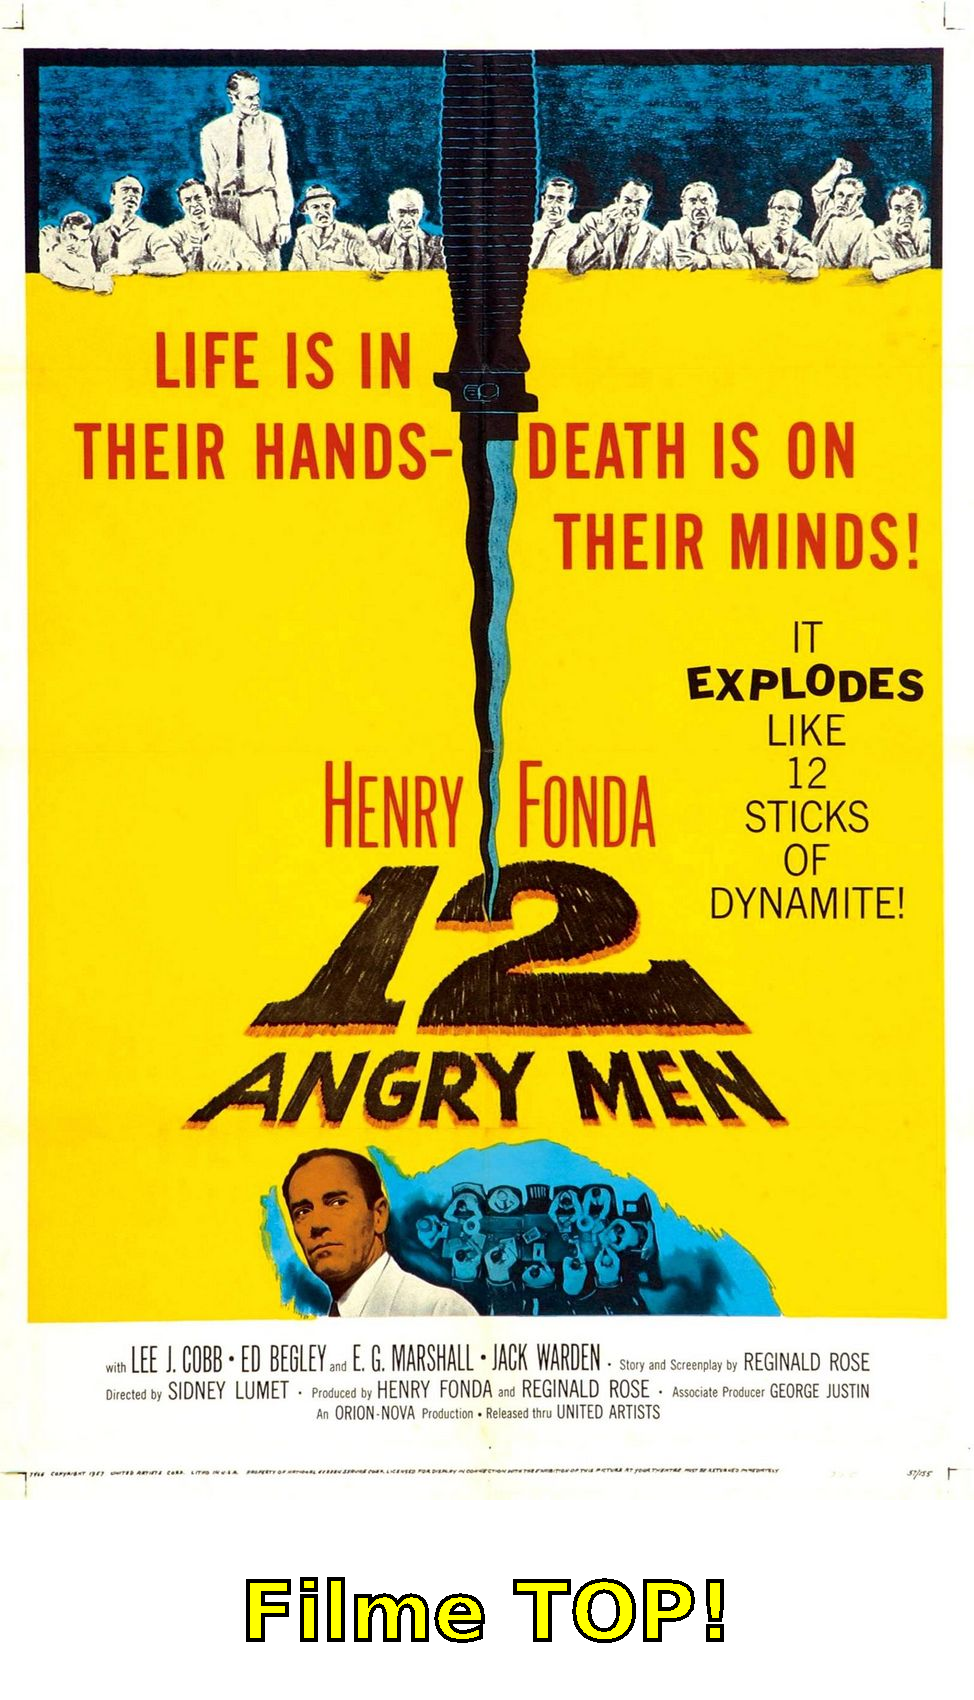
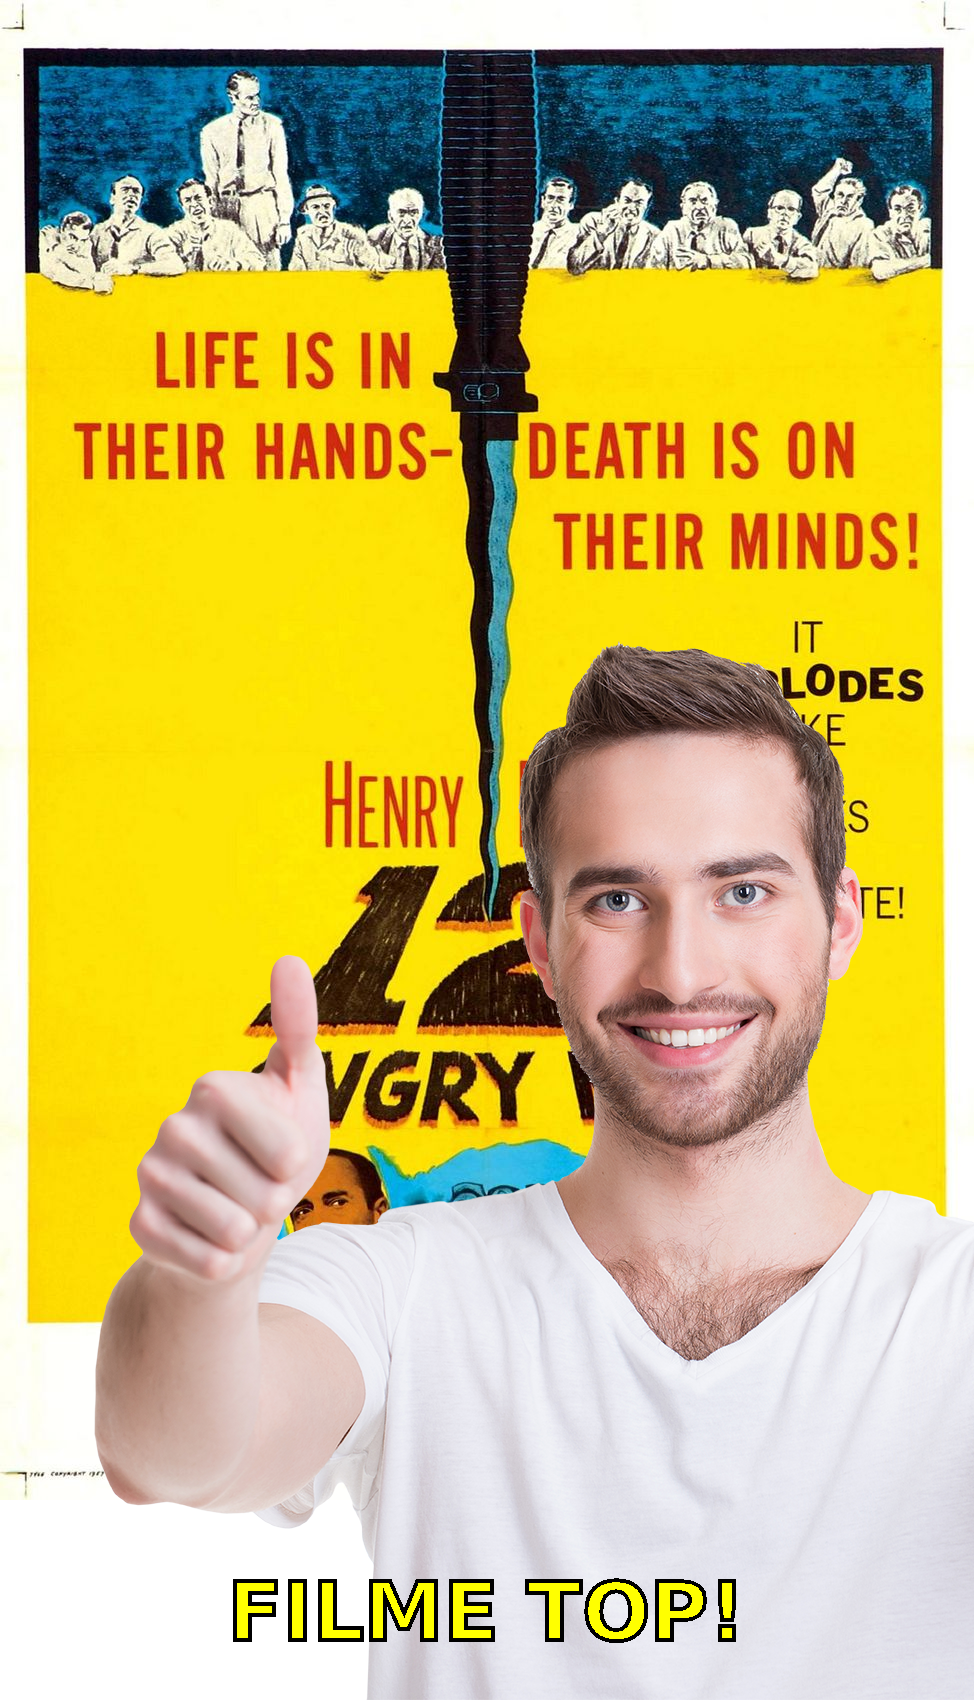
ajustes e realizacao dos desafios

Changed region(s): [[0.0924, 0.3741, 1.0, 1.0]]

diff --git a/src/Main.java b/src/Main.java
@@ -1,6 +1,8 @@
 import java.io.File;
+import java.io.FileInputStream;
 import java.io.IOException;
 import java.io.InputStream;
+import java.lang.reflect.Array;
 import java.net.URI;
 import java.net.URL;
 import java.net.http.HttpClient;
@@ -13,12 +15,14 @@ public class Main {
     public static void main(String[] args) throws IOException, InterruptedException {
 
         // fazer uma conexão HTTP e buscar os top 250 filmes
-        String url = "https://imdb-api.com/en/API/Top250Movies/k_63q3moh2";
+        //String url = "https://raw.githubusercontent.com/alura-cursos/imersao-java-2-api/main/TopMovies.json"; // usando endereço alternativo
+        //String url = "https://imdb-api.com/en/API/Top250Movies/k_63q3moh2";
 
         // faz uma conexão HTTP e busca as top 250 séries de TV
         //String url = "https://imdb-api.com/en/API/Top250TVs/k_63q3moh2";
 
         // faz uma conexão HTTP e busca os filmes mais populares
+        String url = "https://raw.githubusercontent.com/alura-cursos/imersao-java-2-api/main/MostPopularMovies.json";
         //String url = "https://imdb-api.com/en/API/MostPopularMovies/k_63q3moh2";
 
         URI endereco = URI.create(url);
@@ -40,19 +44,48 @@ public class Main {
 
         // exibir e manipular os dados
         GeradorDeStickers geradora = new GeradorDeStickers();
-        for (Map<String,String> filme : listaDeFilmes) {
+
+        //limitando em 5 filmes para agilizar os testes
+        for (int i = 0; i < 5; i++) {
+          var filme = listaDeFilmes.get(i);
+
+        //for (Map<String,String> filme : listaDeFilmes) {
 
             // ajusta a url da imagem para acessar a versão em maior qualidade
-            String urlImagemPequena = filme.get("image");
-            String urlImagem = urlImagemPequena.replace("._V1_UX128_CR0,12,128,176_AL_", "");
+            String urlImagem = filme.get("image");
+            String urlImagemMaior = urlImagem.replaceFirst("(@\\.)([0-9A-Z,_]+).jpg$", "");
+            //String urlImagemMaior = urlImagem.replace("._V1_UX128_CR0,12,128,176_AL_", "");
 
             String titulo = filme.get("title");
+
+            // criei esta verificação pros casos de filmes que estávam sem um imDbRanting
+            Double classificacao;
+            if (filme.get("imDbRating") == "") {
+                classificacao = 0.0;;
+            } else {
+                classificacao = Double.parseDouble(filme.get("imDbRating"));
+            }
+
+            // altera o textoPoster de acordo com a classificação do ImDBRanting
+            String textoPoster;
+            InputStream imagemPessoa;
+            if (classificacao >= 8.0) {
+                textoPoster = "FILME TOP!";
+                imagemPessoa = new FileInputStream(new File("sobreposicao/top.png"));
+            } else if (classificacao >= 6.0) {
+                textoPoster = "FILME BOM";
+                imagemPessoa = new FileInputStream(new File("sobreposicao/bom.png"));
+            } else {
+                textoPoster = "MELHOR ESCOLHER OUTRO...";
+                imagemPessoa = new FileInputStream(new File("sobreposicao/ruim.png"));
+            }
+
             String nomeArquivo = "posters/" + titulo + ".png";
+            InputStream inputStream = new URL(urlImagemMaior).openStream();
 
-            InputStream inputStream = new URL(urlImagem).openStream();
-            geradora.cria(inputStream, nomeArquivo);
+            geradora.cria(inputStream, nomeArquivo, textoPoster, imagemPessoa);
 
-            System.out.println("Título: "+filme.get("title"));
+            System.out.println("Título -> "+filme.get("title"));
             System.out.println();
         }
     }

diff --git a/src/GeradorDeStickers.java b/src/GeradorDeStickers.java
@@ -13,7 +13,7 @@ import java.net.URL;
 
 public class GeradorDeStickers {
 
-    public void cria(InputStream inputStream, String nomeArquivo) throws IOException {
+    public void cria(InputStream inputStream, String nomeArquivo, String texto, InputStream inputStreamSobreposicao) throws IOException {
 
         // fazer a leitura da imagem
         //InputStream inputStream = new FileInputStream(new File("entrada/filme.jpg"));
@@ -30,13 +30,17 @@ public class GeradorDeStickers {
         Graphics2D graphics = (Graphics2D) novaImagem.getGraphics();
         graphics.drawImage(imagemOriginal, 0, 0, null);
 
+        // extraindo a imagem para sobreposição
+        BufferedImage imagemSobreposicao = ImageIO.read(inputStreamSobreposicao);
+        int posicaoImagemSobreposicaoY = novaAltura -imagemSobreposicao.getHeight();
+        graphics.drawImage(imagemSobreposicao, 0, posicaoImagemSobreposicaoY, null);
+
         // configurar a fonte
         Font fonte = new Font(Font.SANS_SERIF, Font.BOLD, 80);
         graphics.setColor(Color.YELLOW);
         graphics.setFont(fonte);
 
         // escrever uma frase na nova imagem
-        String texto = "Filme TOP!";
         FontMetrics fontMetrics = graphics.getFontMetrics();
         Rectangle2D retangulo = fontMetrics.getStringBounds(texto, graphics);
         int larguraTexto = (int) retangulo.getWidth();
